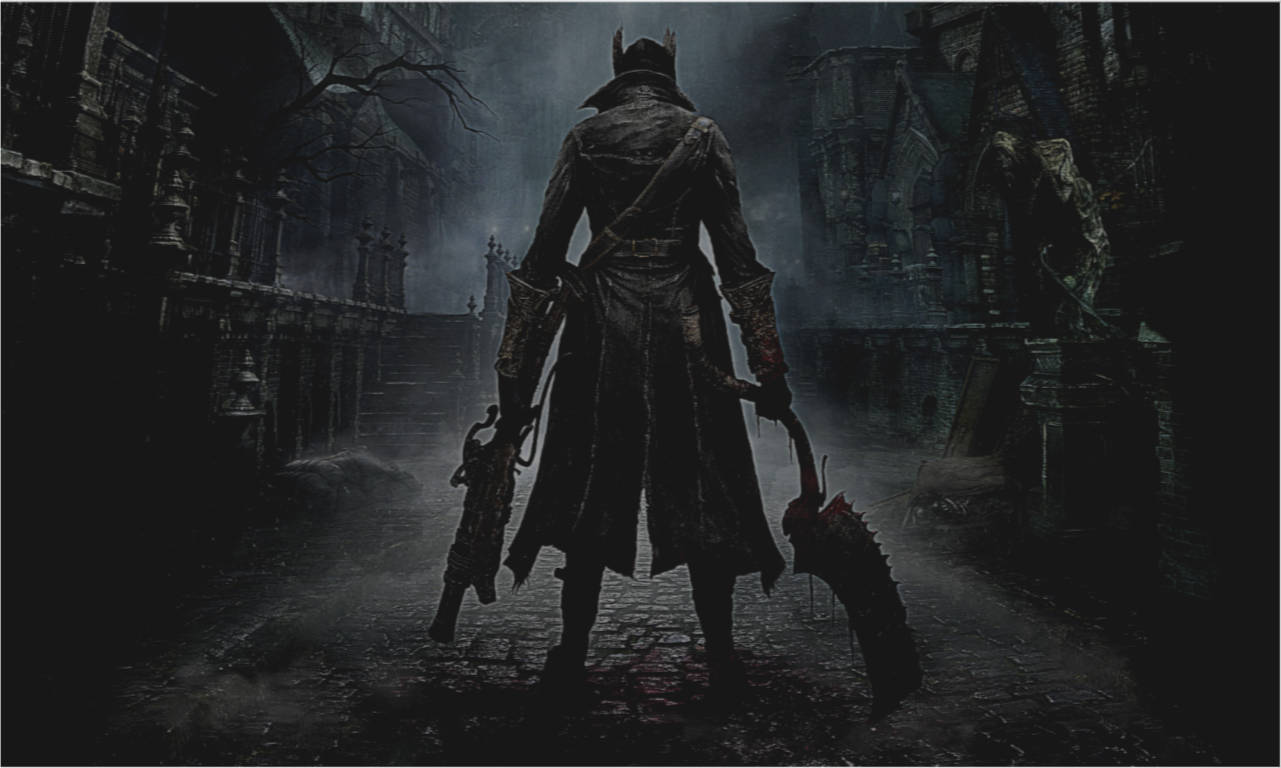
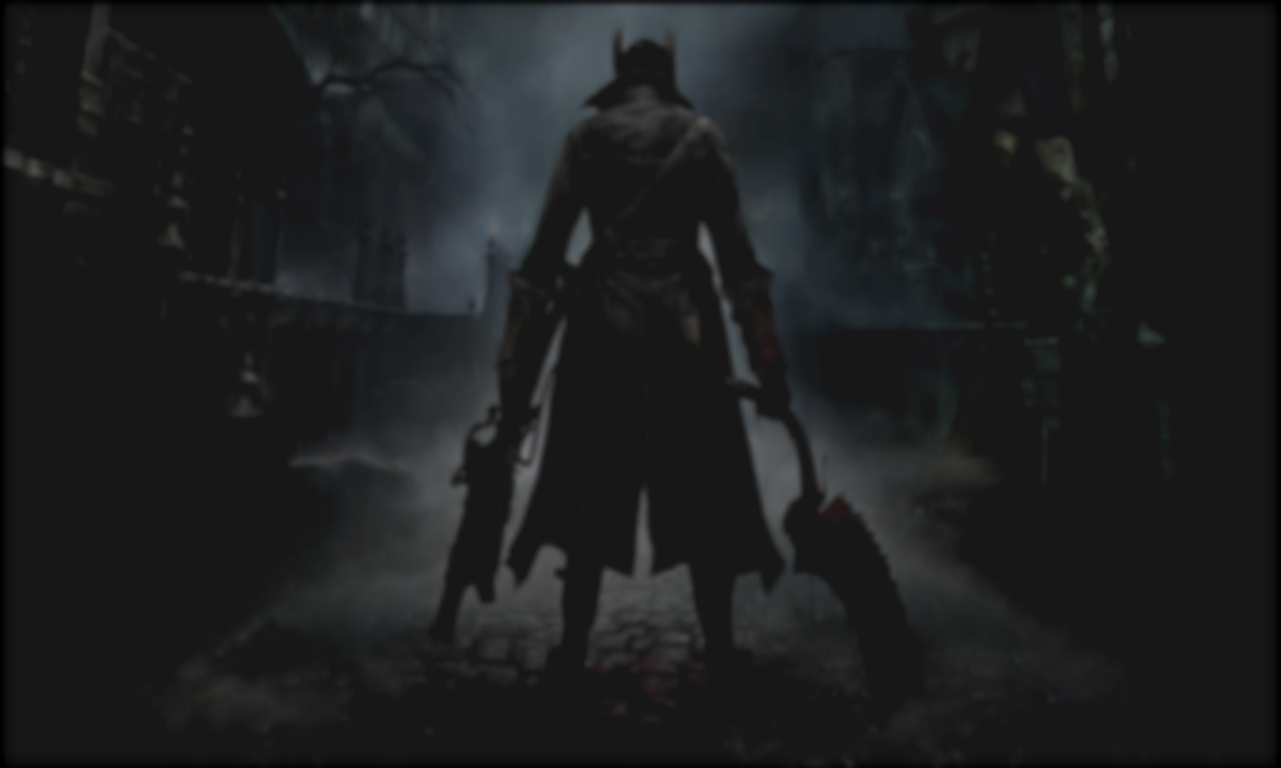
Some refactoring and main menu background changes

diff --git a/js/engine/sprite.js b/js/engine/sprite.js
@@ -36,25 +36,22 @@ Sprite.prototype.updateConfig = function (config) {
 };
 
 Sprite.prototype.rotateToDirection = function (direction) {
-    var pos = this.defaultPosition,
-        config = {};
+    let pos = this.defaultPosition;
+    let config = {};
+    let angle = direction.angle(new Phaser.Point(0,0), true);
 
-    /*if (direction.dir == 1) {
-        ((direction.k < 1) && (direction.k >= -1)) && (config.pos = [pos.x, pos.y]);
-        (direction.k >= 1) && (config.pos = [pos.x, pos.y + 2 * this.size[1]]);
-        (direction.k < -1) && (config.pos =[pos.x, pos.y + this.size[1]]);
-        ( direction.k == 'vertical')  && (config.pos =[pos.x, pos.y + 3 * this.size[1]]);
-        ( direction.k == 'horizontal')  && (config.pos =[pos.x, pos.y]);
-    } else if (direction.dir == -1) {
-        (direction.k >= 1) && (config.pos =[pos.x, pos.y + this.size[1]]);
-        ((direction.k < 1) && (direction.k >= -1)) && (config.pos =[pos.x, pos.y + 3 * this.size[1]]);
-        (direction.k < -1) && (config.pos = [pos.x, pos.y + 2 * this.size[1]]);
-        ( direction.k == 'vertical')  && (config.pos =[pos.x, pos.y]);
-        ( direction.k == 'horizontal')  && (config.pos =[pos.x, pos.y + 3 * this.size[1]]);
-    }*/
+    if (angle > 135 || angle < -135) {
+        config.pos = [pos.x, pos.y + 2 * this.size[1]]
+    } else if (angle < 135 && angle > 45) {
+        config.pos =[pos.x, pos.y + 3 * this.size[1]]
+    } else if (angle < 45 && angle > -45 ) {
+        config.pos =[pos.x, pos.y + this.size[1]]
+    } else {
+        config.pos =[pos.x, pos.y]
+    }
 
-    //config.pos = new Phaser.Point(config.pos[0], config.pos[1]);
-    //this.updateConfig(config);
+    config.pos = new Phaser.Point(config.pos[0], config.pos[1]);
+    this.updateConfig(config);
 };
 
 Sprite.prototype.render = function (ctx) {

diff --git a/js/configs/rules/spells.js b/js/configs/rules/spells.js
@@ -22,12 +22,12 @@ var config = {
                             createBullet(Phaser.Point.subtract(movedPoint, player.pos), movedPoint.clone());
                             startDegree -= 20;
                         }
-                        if (obj.getDefaultParameter('cooldown') + 3 * (spellPower - 1) > 30) {
+                       /* if (obj.getDefaultParameter('cooldown') + 3 * (spellPower - 1) > 30) {
                             obj.setParameter('cooldown', 30);
                         } else {
                             obj.setParameter('cooldown', obj.getDefaultParameter('cooldown') + 5 * (spellPower - 1));
-                        }
-
+                        }*/
+                        obj.setParameter('cooldown', obj.getDefaultParameter('cooldown'));
                         obj.setParameter('fireCooldown', obj.getParameter('cooldown'));
 
                         function createBullet(direction, destination) {

diff --git a/js/configs/rules/etc.js b/js/configs/rules/etc.js
@@ -63,7 +63,7 @@ var config = {
             var topLeft = new Victor(100, 100);
             var bottomRight = new Victor(1100, 850);
             var coords = Victor(10, 20).randomize(topLeft, bottomRight).toArray();
-            this.context.setParameter('direction', Phaser.Point.subtract(new Phaser.Point(coords[0], coords[1]), this.context.pos));
+            this.context.setParameter('direction', new Phaser.Point(coords[0], coords[1]));
         },
         update: function (dt, obj) {
             var player = obj.layer.getObjectsByType('player')[0],
@@ -151,7 +151,6 @@ var config = {
                 var expl = obj.layer.addObject(explosionConfig);
                 expl.setParameter('power', obj.getParameter('power'));
 
-                return;
             } else {
                 obj.setParameter('cooldown', cooldown - 1);
             }

diff --git a/js/phaser/states/mainMenu.js b/js/phaser/states/mainMenu.js
@@ -12,8 +12,8 @@ class MainMenu extends Phaser.State {
         var start = this.add.text(0, 3,'START', {
             fill: '#efefef'
         });
-        var info = this.add.text(0, -150, ' Moving: WASD\n Aim: Mouse\n Cast spell: Mouse or Space\n Select spell: 1,2,3 etc.', {
-            fontSize : '18px',
+        var info = this.add.text(-300, -300, ' MOVING: WASD\n AIM: MOUSE\n CAST SPELL: MOUSE CLICK OR SPACE\n SELECT SPELL: 1, 2, 3.', {
+            fontSize : '20px',
             fill: '#efefef'
         });
 

diff --git a/js/configs/rules/units.js b/js/configs/rules/units.js
@@ -266,7 +266,7 @@ var config = {
                     obj.setParameter('fireCooldown', obj.getParameter('cooldown'));
                 }
             } else {
-                //obj.setPosition(directionToPlayer.getDestination(obj.pos, obj.getParameter('speed') * dt));
+                obj.setPosition(utils.moveWithSpeed(obj.pos, directionToPlayer, obj.getParameter('speed') * dt));
             }
         }
     },

diff --git a/js/configs/objects/spells.js b/js/configs/objects/spells.js
@@ -8,7 +8,7 @@ var config = {
         render : 'spell',
         parameters : {
             bulletsFired: 0,
-            cooldown: 10
+            cooldown: 20
         },
         type : 'spell',
         rules : ['fireball']
